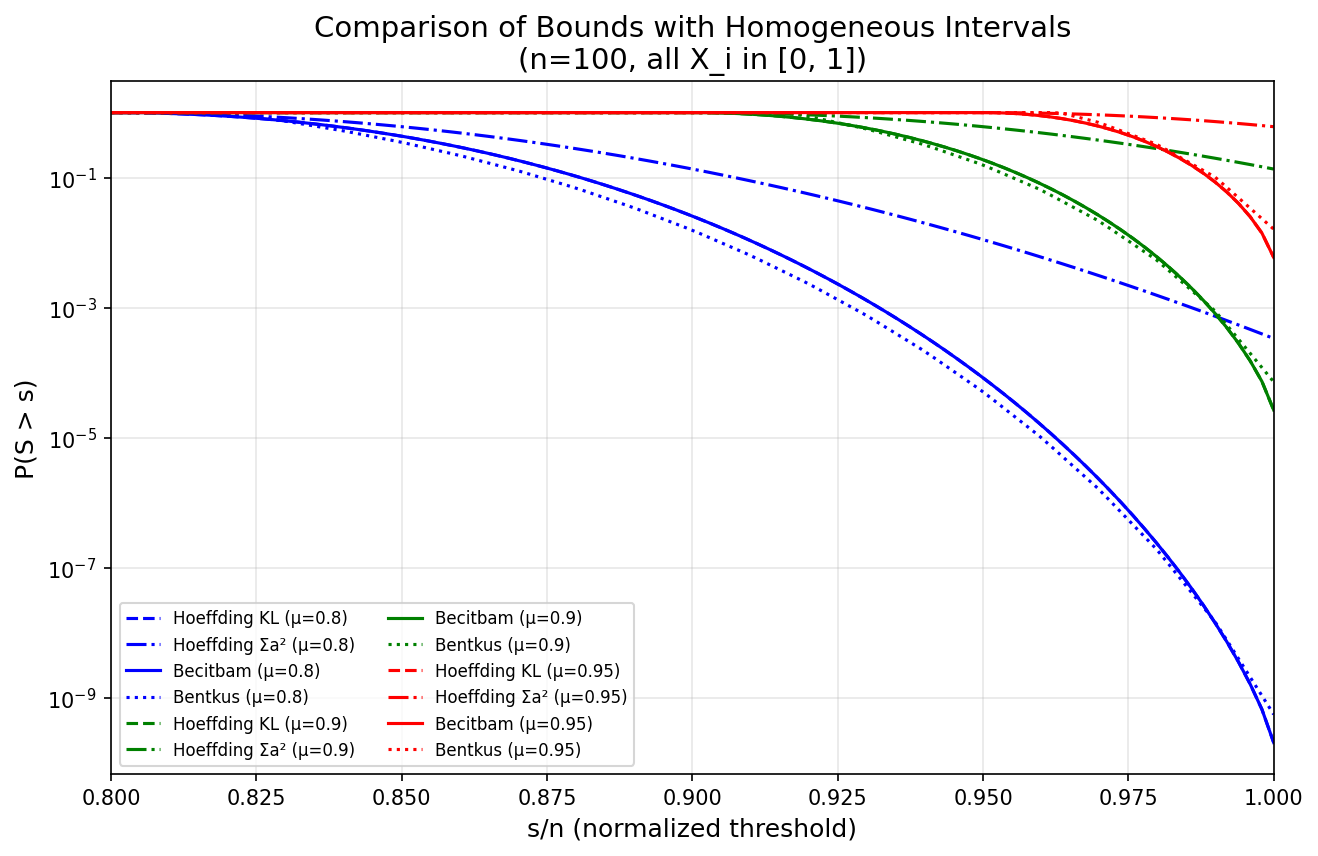
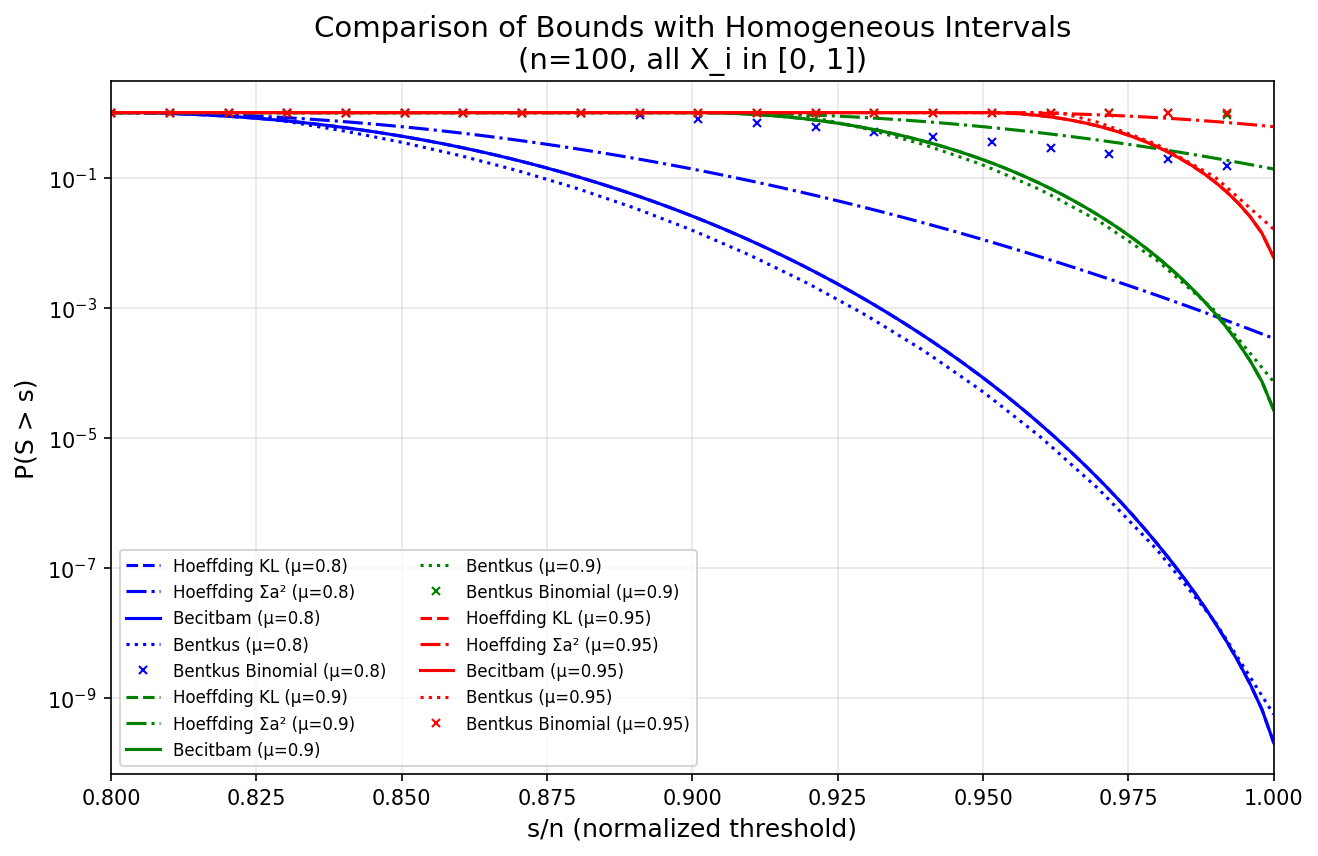
Add bentkus_binomial function using RMS scale and symmetric Bernoulli comparison

Changed region(s): [[0.0933, 0.6379, 0.5288, 0.8808], [0.5599, 0.1215, 0.591, 0.1519], [0.0933, 0.7593, 0.1244, 0.7897]]

diff --git a/becitbam/__init__.py b/becitbam/__init__.py
@@ -202,6 +202,144 @@ def bentkus(s, mu, a):
     return min(bentkus_prob, 1.0)
 
 
+def bentkus_binomial(s, mu, a):
+    '''
+    Bentkus bound for P(S >= s) using the symmetric Bernoulli construction
+    with RMS scale (Corollary 1.4 / Theorem 1.3).
+
+    This function uses the root-mean-square scale a = sqrt(sum(a_i^2)/n) 
+    instead of the maximum scale. The bound compares the centered variable 
+    M = S - mu to a sum of symmetric Bernoulli random variables.
+
+    Let
+        S = sum_i^n X_i
+        X_i in [0, a_i]
+        sum E[X_i] = mu
+
+    We bound P(S >= s) by analyzing the centered variable M = S - mu.
+    With x = s - mu, Corollary 1.4 gives:
+        P(M >= x) <= (2e^3/9) * P°(S_n >= x)
+
+    where S_n = sum of n i.i.d. symmetric Bernoulli variables epsilon_i in {-a, +a}
+    with a = sqrt(sum(a_i^2)/n) being the RMS scale.
+
+    Since S_n = a(2K - n) where K ~ Binomial(n, 1/2), the lattice points are
+    at y = a(2k - n) for k = 0, 1, ..., n. For non-lattice points, log-linear
+    interpolation is used.
+
+    Parameters
+    ----------
+    s : float
+        Threshold value
+    mu : float
+        Mean of the sum S
+    a : numpy.ndarray
+        Upper bounds for each variable (X_i in [0, a_i])
+
+    Returns
+    -------
+    float
+        Bentkus binomial bound on P(S >= s) (probability, not log probability)
+    '''
+    from scipy.stats import binom
+
+    a = np.asarray(a)
+    n = len(a)
+    
+    # Handle edge case of no variables
+    if n == 0:
+        return 1.0 if s <= 0 else 0.0
+    
+    # RMS scale: a_rms = sqrt(sum(a_i^2) / n)
+    a_rms = np.sqrt(np.sum(a ** 2) / n)
+    
+    # Handle edge case where all a_i = 0
+    if a_rms <= 0:
+        return 1.0 if s <= 0 else 0.0
+    
+    # Centered threshold: x = s - mu
+    x = s - mu
+    
+    # If x <= -n*a_rms (i.e., s <= mu - n*a_rms), probability is 1
+    # If x > n*a_rms (i.e., s > mu + n*a_rms), probability is 0
+    if x <= -n * a_rms:
+        return 1.0
+    if x > n * a_rms:
+        return 0.0
+    
+    # The symmetric Bernoulli sum S_n takes values a(2k-n) for k = 0, 1, ..., n
+    # Lattice spacing is 2*a_rms
+    # S_n = a_rms * (2K - n) where K ~ Binomial(n, 1/2)
+    # P(S_n >= x) = P(K >= (x/a_rms + n)/2)
+    
+    # Find k such that a_rms*(2k - n) is the lattice point at or just below x
+    # Solve: a_rms*(2k - n) <= x => k <= (x/a_rms + n) / 2
+    k_continuous = (x / a_rms + n) / 2.0
+    
+    # k must be in [0, n], and we need k such that a_rms*(2k-n) <= x
+    k = int(np.floor(k_continuous))
+    k = max(0, min(n, k))
+    
+    # Lattice point y = a_rms*(2k - n)
+    y = a_rms * (2 * k - n)
+    
+    # Next lattice point y + 2*a_rms = a_rms*(2(k+1) - n)
+    y_next = a_rms * (2 * (k + 1) - n)
+    
+    # Check if x is at a lattice point (within numerical tolerance)
+    if np.abs(x - y) < 1e-12 * max(1.0, abs(x), abs(y)):
+        # x is exactly at lattice point y = a_rms*(2k - n)
+        # P(S_n >= y) = P(K >= k)
+        if k <= 0:
+            tail_prob = 1.0
+        elif k > n:
+            tail_prob = 0.0
+        else:
+            # P(K >= k) = 1 - P(K <= k-1) = binom.sf(k-1, n, 0.5)
+            tail_prob = binom.sf(k - 1, n, 0.5)
+    else:
+        # x is between lattice points y and y_next
+        # Log-linear interpolation:
+        # lambda = (x - y) / (2*a_rms) in (0, 1)
+        # P°(S_n >= x) = P(K >= k)^(1-lambda) * P(K >= k+1)^lambda
+        
+        lam = (x - y) / (2 * a_rms)
+        lam = np.clip(lam, 0.0, 1.0)  # numerical safety
+        
+        # P(K >= k) 
+        if k <= 0:
+            P_k = 1.0
+        elif k > n:
+            P_k = 0.0
+        else:
+            P_k = binom.sf(k - 1, n, 0.5)
+        
+        # P(K >= k+1)
+        if k + 1 <= 0:
+            P_k1 = 1.0
+        elif k + 1 > n:
+            P_k1 = 0.0
+        else:
+            P_k1 = binom.sf(k, n, 0.5)
+        
+        # Log-linear interpolation
+        if P_k1 <= 0:
+            # If P(K >= k+1) = 0, result is 0 for any lambda > 0
+            tail_prob = 0.0
+        elif P_k <= 0:
+            # This shouldn't happen for valid k, but handle it
+            tail_prob = 0.0
+        else:
+            # P°(S_n >= x) = P_k^(1-lambda) * P_k1^lambda
+            tail_prob = np.exp((1 - lam) * np.log(P_k) + lam * np.log(P_k1))
+    
+    # Apply the prefactor 2*e^3/9
+    prefactor = 2 * np.e ** 3 / 9
+    bentkus_prob = prefactor * tail_prob
+    
+    # Probability cannot exceed 1
+    return min(bentkus_prob, 1.0)
+
 
 r'''
  _   _       _     _          _                            __  __

diff --git a/comparisons/dirichlet_compare.py b/comparisons/dirichlet_compare.py
@@ -22,7 +22,7 @@ import os
 # Add the parent directory to path to import becitbam
 sys.path.insert(0, os.path.dirname(os.path.dirname(os.path.abspath(__file__))))
 
-from becitbam import hoeffding_thm2, sharp_chernoff, bentkus
+from becitbam import hoeffding_thm2, sharp_chernoff, bentkus, bentkus_binomial
 
 
 def generate_simplex_vector(n, seed=42):
@@ -69,10 +69,13 @@ def compute_bounds(s_values, mu, a):
         Becitbam (sharp Chernoff) bound on P(S > s) for each s
     bentkus_bounds : numpy.ndarray
         Bentkus bound on P(S > s) for each s (rescaled to max interval = 1)
+    bentkus_binomial_bounds : numpy.ndarray
+        Bentkus binomial bound on P(S > s) for each s (using RMS scale)
     """
     hoeffding_bounds = []
     becitbam_bounds = []
     bentkus_bounds = []
+    bentkus_binomial_bounds = []
     
     for s in s_values:
         # Hoeffding bound (returns log probability)
@@ -86,8 +89,13 @@ def compute_bounds(s_values, mu, a):
         # Bentkus bound (returns probability directly)
         bentkus_prob = bentkus(s, mu, a)
         bentkus_bounds.append(bentkus_prob)
+        
+        # Bentkus binomial bound (returns probability directly)
+        bentkus_binom_prob = bentkus_binomial(s, mu, a)
+        bentkus_binomial_bounds.append(bentkus_binom_prob)
     
-    return np.array(hoeffding_bounds), np.array(becitbam_bounds), np.array(bentkus_bounds)
+    return (np.array(hoeffding_bounds), np.array(becitbam_bounds), 
+            np.array(bentkus_bounds), np.array(bentkus_binomial_bounds))
 
 
 def main(n=100, seed=42):
@@ -123,7 +131,7 @@ def main(n=100, seed=42):
     
     for mu, color in zip(mu_values, colors):
         print(f"Computing bounds for mu={mu}...")
-        hoeffding_bounds, becitbam_bounds, bentkus_bounds = compute_bounds(s_values, mu, a)
+        hoeffding_bounds, becitbam_bounds, bentkus_bounds, bentkus_binom_bounds = compute_bounds(s_values, mu, a)
         
         # Plot Hoeffding bound (dashed line)
         ax.plot(s_values, hoeffding_bounds, '--', color=color, 
@@ -137,11 +145,15 @@ def main(n=100, seed=42):
         # The bentkus function internally rounds s/max(a) to integer, creating step function behavior
         ax.plot(s_values, bentkus_bounds, ':', color=color,
                 label=f'Bentkus (μ={mu})', linewidth=1.5)
+        
+        # Plot Bentkus binomial bound (markers)
+        ax.plot(s_values, bentkus_binom_bounds, 'x', color=color,
+                label=f'Bentkus Binomial (μ={mu})', markersize=4, markevery=5)
     
     ax.set_xlabel('s', fontsize=12)
     ax.set_ylabel('P(S > s)', fontsize=12)
     ax.set_title(f'Comparison of Hoeffding, Becitbam, and Bentkus Bounds\n(n={n}, simplex-distributed intervals)', fontsize=14)
-    ax.legend(loc='lower left', fontsize=10)
+    ax.legend(loc='lower left', fontsize=8, ncol=2)
     ax.set_yscale('log')
     ax.grid(True, alpha=0.3)
     ax.set_xlim(0.8, 1.0)

diff --git a/comparisons/homogen_compare.py b/comparisons/homogen_compare.py
@@ -21,7 +21,7 @@ import os
 # Add the parent directory to path to import becitbam
 sys.path.insert(0, os.path.dirname(os.path.dirname(os.path.abspath(__file__))))
 
-from becitbam import hoeffding_thm1, hoeffding_thm2, sharp_chernoff, bentkus
+from becitbam import hoeffding_thm1, hoeffding_thm2, sharp_chernoff, bentkus, bentkus_binomial
 
 
 def compute_bounds(s_values, mu, n):
@@ -47,6 +47,8 @@ def compute_bounds(s_values, mu, n):
         Becitbam (sharp Chernoff) bound on P(S > s)
     bentkus_bounds : numpy.ndarray
         Bentkus bound on P(S > s)
+    bentkus_binomial_bounds : numpy.ndarray
+        Bentkus binomial bound on P(S > s) (using RMS scale)
     """
     # All intervals are [0, 1]
     a = np.ones(n)
@@ -55,6 +57,7 @@ def compute_bounds(s_values, mu, n):
     hoeffding2_bounds = []
     becitbam_bounds = []
     bentkus_bounds = []
+    bentkus_binomial_bounds = []
     
     for s in s_values:
         # Hoeffding Theorem 1 (KL-based, returns log probability)
@@ -72,9 +75,14 @@ def compute_bounds(s_values, mu, n):
         # Bentkus bound (returns probability directly)
         bentkus_prob = bentkus(s, mu, a)
         bentkus_bounds.append(bentkus_prob)
+        
+        # Bentkus binomial bound (returns probability directly)
+        bentkus_binom_prob = bentkus_binomial(s, mu, a)
+        bentkus_binomial_bounds.append(bentkus_binom_prob)
     
     return (np.array(hoeffding1_bounds), np.array(hoeffding2_bounds), 
-            np.array(becitbam_bounds), np.array(bentkus_bounds))
+            np.array(becitbam_bounds), np.array(bentkus_bounds),
+            np.array(bentkus_binomial_bounds))
 
 
 def main(n=100):
@@ -106,7 +114,7 @@ def main(n=100):
     
     for mu, frac, color in zip(mu_values, mu_fractions, colors):
         print(f"Computing bounds for mu={mu} (fraction={frac})...")
-        hoeffding1, hoeffding2, becitbam, bentkus_bounds = compute_bounds(s_values, mu, n)
+        hoeffding1, hoeffding2, becitbam, bentkus_bounds, bentkus_binom_bounds = compute_bounds(s_values, mu, n)
         
         # Plot Hoeffding Theorem 1 (KL) bound (dashed line)
         ax.plot(s_values / n, hoeffding1, '--', color=color, 
@@ -123,6 +131,10 @@ def main(n=100):
         # Plot Bentkus bound (dotted line)
         ax.plot(s_values / n, bentkus_bounds, ':', color=color,
                 label=f'Bentkus (μ={frac})', linewidth=1.5)
+        
+        # Plot Bentkus binomial bound (markers)
+        ax.plot(s_values / n, bentkus_binom_bounds, 'x', color=color,
+                label=f'Bentkus Binomial (μ={frac})', markersize=4, markevery=5)
         
         # Sanity check: Becitbam should match Hoeffding KL
         max_diff = np.max(np.abs(hoeffding1 - becitbam))
